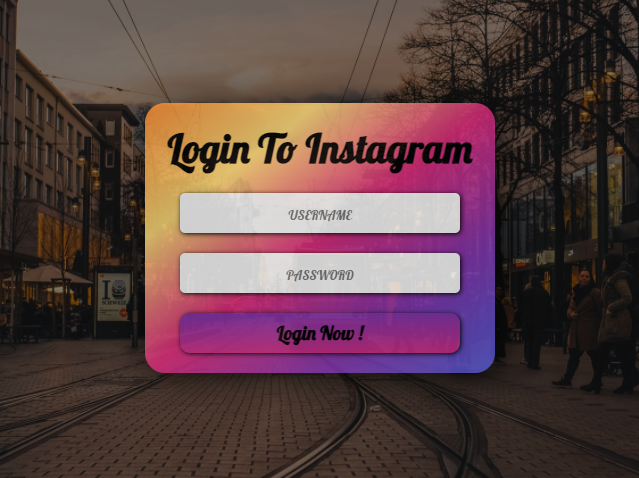
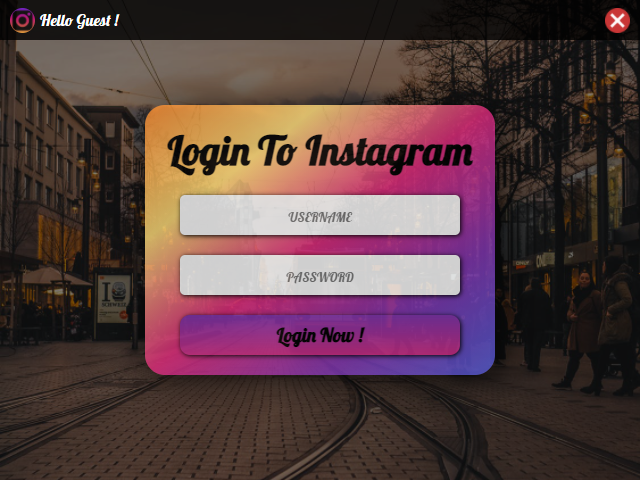
demo image added and readme modified

diff --git a/README.md b/README.md
@@ -1,5 +1,6 @@
 ### Instagram unfollowers
-
-under construction
+Find out who unfollowed you on instagram !
 
 ![Alt Text](./images/demo.PNG)
+
+![Alt Text](./images/demo2.PNG)
